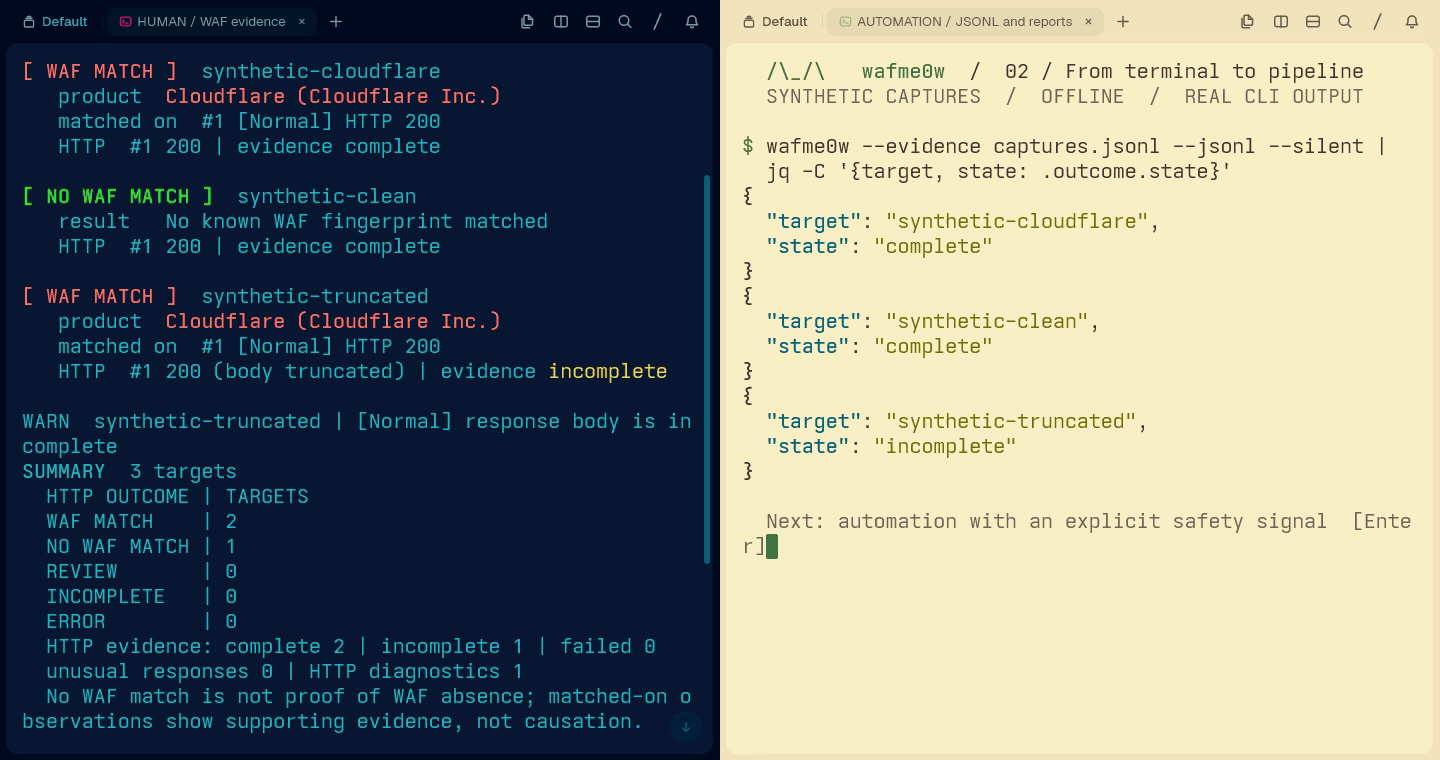
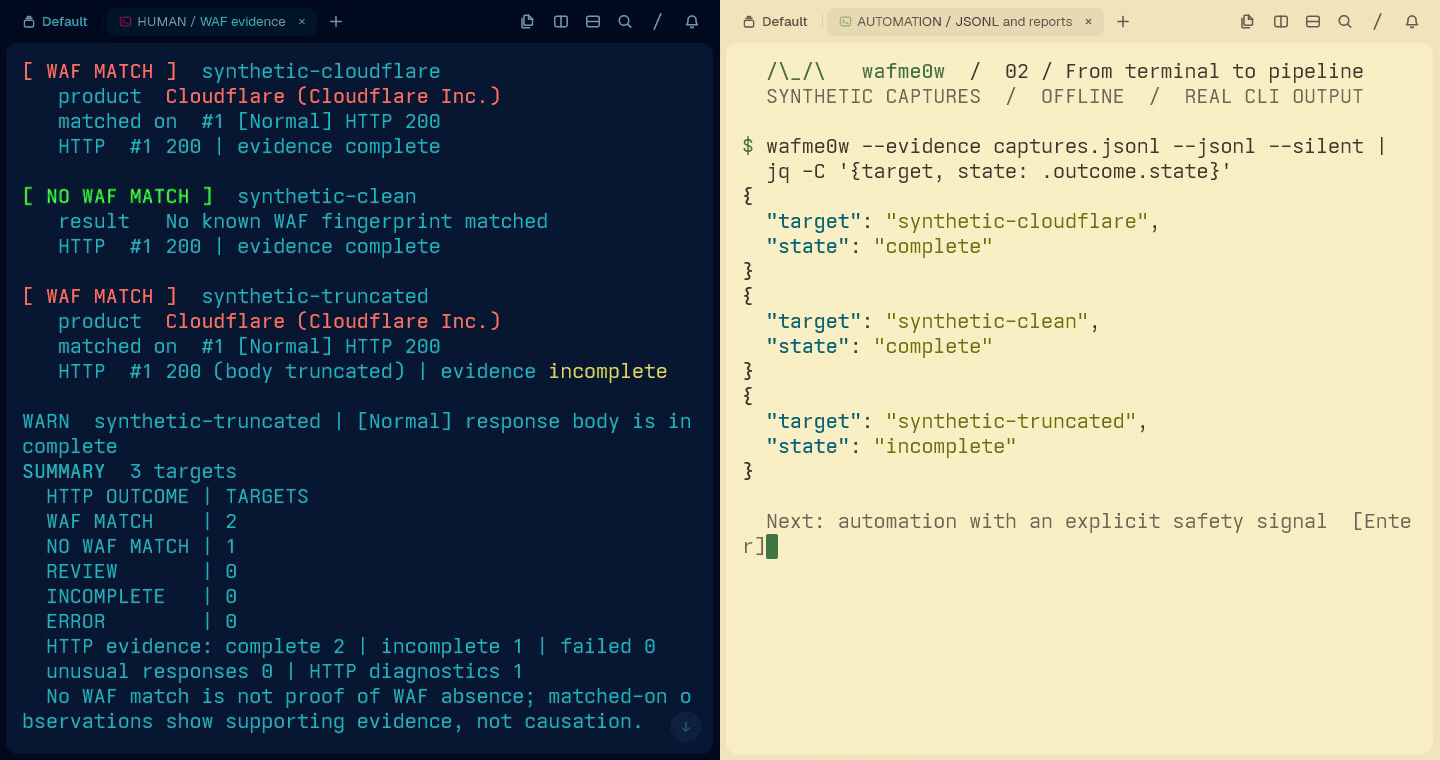
fix: animate both README demo workflows

Changed region(s): [[0.4688, 0.2421, 0.5, 0.7263], [0.0312, 0.2421, 0.1562, 0.2724]]

diff --git a/docs/usage.md b/docs/usage.md
@@ -40,8 +40,9 @@ The README pairs two different jobs: human-readable evidence in `dark-cyberpunk`
 on the left, JSONL processing and strict report publication in `light-gruvbox`
 on the right. It uses a still frame when reduced motion is preferred.
 These are two real Tern recordings composed side by side, not a per-pane theme setting.
-The evidence pane is scrolled to the results and incomplete-body warning;
-the full walkthrough includes the command, banner, and complete summary.
+Recording starts before either command runs, showing typing and actual output.
+The evidence pane then scrolls to the results and incomplete-body warning,
+followed by the summary; the full walkthrough includes all output.
 
 To record it again, install Tern, Go, Bash, jq, and FFmpeg with the `libx264`
 encoder. From the repository root, choose a fresh output directory:

diff --git a/README.md b/README.md
@@ -32,8 +32,6 @@
 </p>
 
 <p align="center">
-  <strong>Cyberpunk:</strong> human evidence · <strong>Gruvbox:</strong> JSONL &amp; reports<br>
-  Synthetic captures · No target requests<br>
   <a href="assets/demo/tern-demo-split.gif">Open full-size split demo</a> ·
   <a href="assets/demo/tern-demo.mp4">Watch the full walkthrough</a> ·
   <a href="docs/usage.md#offline-captures">Commands &amp; recording</a>
